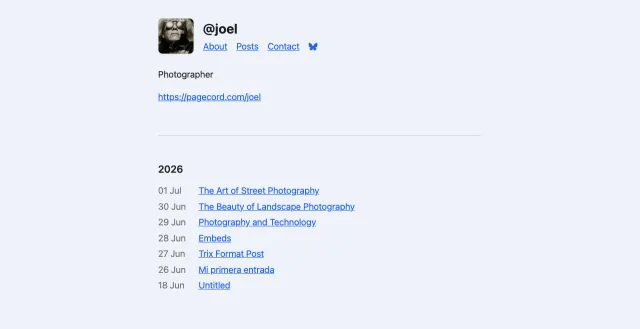
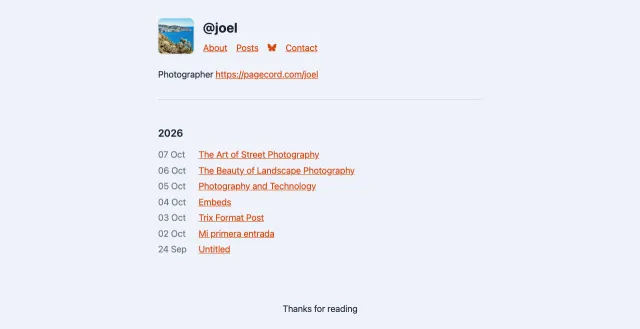
Add the Haiku theme, refresh Pukka and reorder the Theme Garden
Haiku tiles photo posts as squares with the words laid over the picture,
in EB Garamond over Literata on celadon paper. Pukka swaps Tailwind's
stock blue for tangerine. The order now leads with a mix of layouts.
Theme screenshots hide the header subscribe form, as no thumbnail shows it.

diff --git a/test/lib/tasks/theme_templates_rake_test.rb b/test/lib/tasks/theme_templates_rake_test.rb
@@ -45,6 +45,25 @@ class ThemeTemplatesRakeTest < ActiveSupport::TestCase
     assert_equal "body { color: blue; }", other.reload.custom_css
   end
 
+  test "sync creates a template that is missing" do
+    theme_templates(:haiku).destroy!
+
+    out, = capture_io { Rake::Task["theme_templates:sync"].invoke("haiku") }
+
+    assert_match(/Haiku: created/, out)
+    assert_equal "cards_layout", ThemeTemplate.find_by!(name: "Haiku").layout
+  end
+
+  test "sync updates settings as well as CSS" do
+    @template.update_columns(position: 99, custom_theme_accent_light: "#123456")
+
+    out, = capture_io { Rake::Task["theme_templates:sync"].invoke("minimal_mono") }
+
+    assert_match(/position: 99 -> \d+/, out)
+    assert_equal fixture_for(@template.name)["position"], @template.reload.position
+    assert_nil @template.custom_theme_accent_light
+  end
+
   test "sync aborts on an unknown theme" do
     assert_raises(SystemExit) do
       capture_io { Rake::Task["theme_templates:sync"].invoke("nope") }
@@ -62,9 +81,12 @@ class ThemeTemplatesRakeTest < ActiveSupport::TestCase
   end
 
   private
+    def fixture_for(name)
+      YAML.load_file(Rails.root.join("test/fixtures/theme_templates.yml")).each_value.find { |attrs| attrs["name"] == name }
+    end
+
     def fixture_css_for(name)
-      YAML.load_file(Rails.root.join("test/fixtures/theme_templates.yml"))
-          .each_value.find { |attrs| attrs["name"] == name }["custom_css"]
+      fixture_for(name)["custom_css"]
     end
 
     def with_env(vars)
